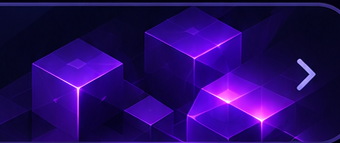
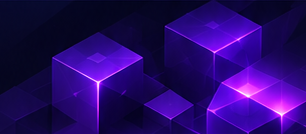
Changes

diff --git a/src/index.css b/src/index.css
@@ -1249,6 +1249,6 @@
 .lsm-rank-trophy-art { width: 42px; height: 40px; -webkit-mask-image: radial-gradient(closest-side, #000 75%, transparent 100%); mask-image: radial-gradient(closest-side, #000 75%, transparent 100%); }
 .lsm-play-art { width: 54px; height: 58px; -webkit-mask-image: radial-gradient(closest-side, #000 80%, transparent 100%); mask-image: radial-gradient(closest-side, #000 80%, transparent 100%); }
 .lsm-crown-art { width: 46px; height: 43px; flex-shrink: 0; border-radius: 10px; }
-.lsm-cubes-art { position: absolute; right: 0; top: 0; bottom: 0; height: 100%; width: auto; pointer-events: none; -webkit-mask-image: linear-gradient(90deg, transparent, #000 30%); mask-image: linear-gradient(90deg, transparent, #000 30%); border-radius: 0 18px 18px 0; }
+.lsm-cubes-art { position: absolute; right: 44px; top: 0; bottom: 0; height: 100%; width: auto; pointer-events: none; -webkit-mask-image: linear-gradient(90deg, transparent, #000 30%); mask-image: linear-gradient(90deg, transparent, #000 30%); border-radius: 0 18px 18px 0; }
 .lsm-row-brix .lsm-chev { position: relative; z-index: 1; }
 .lsm-nav { margin-bottom: -12px; }
